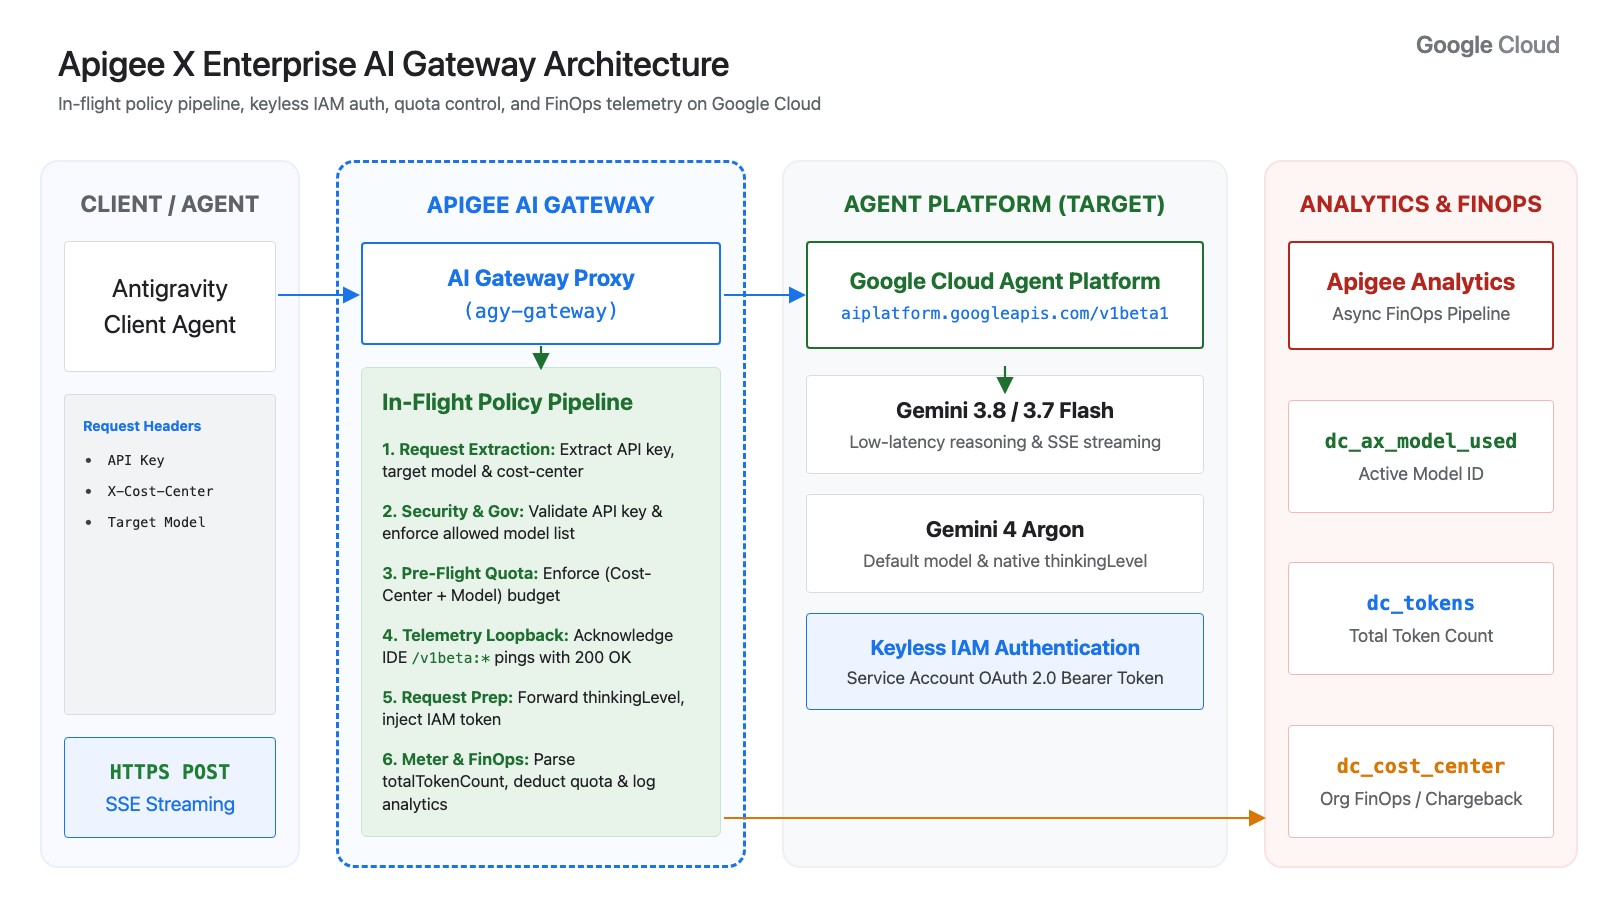
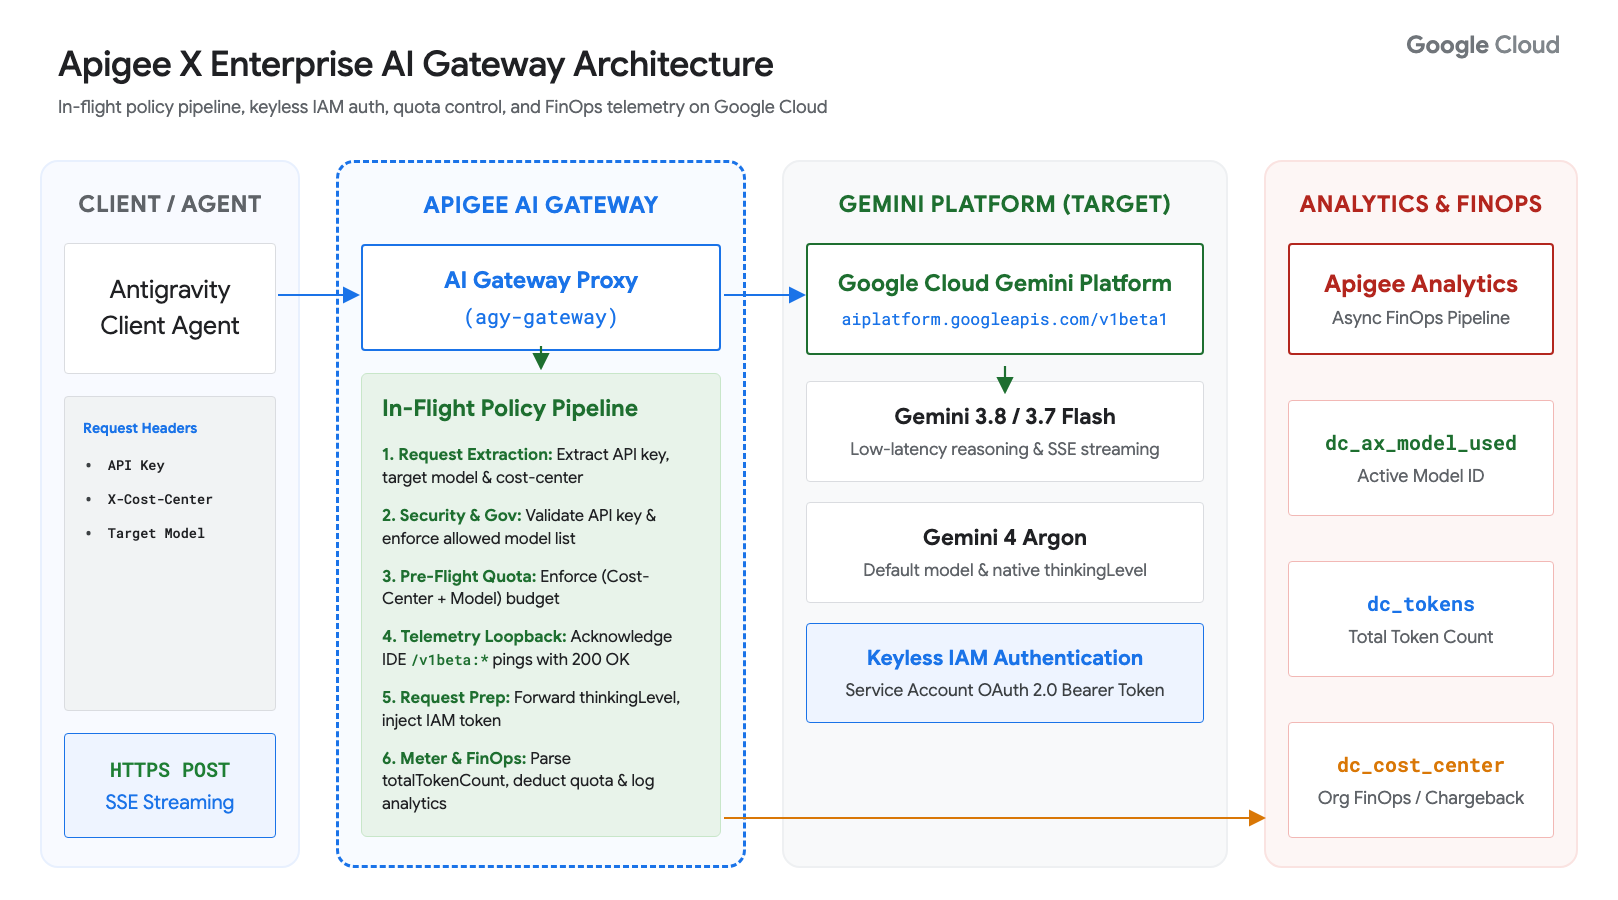
Update architecture diagram target column to Gemini Platform

diff --git a/README.md b/README.md
@@ -10,7 +10,7 @@ This repository contains a sample template to serve as a reference implementatio
 
 ## Architecture Overview
 
-![Apigee X Enterprise AI Gateway Architecture](./architecture.png?v=3)
+![Apigee X Enterprise AI Gateway Architecture](./architecture.png?v=4)
 
 ---
 
